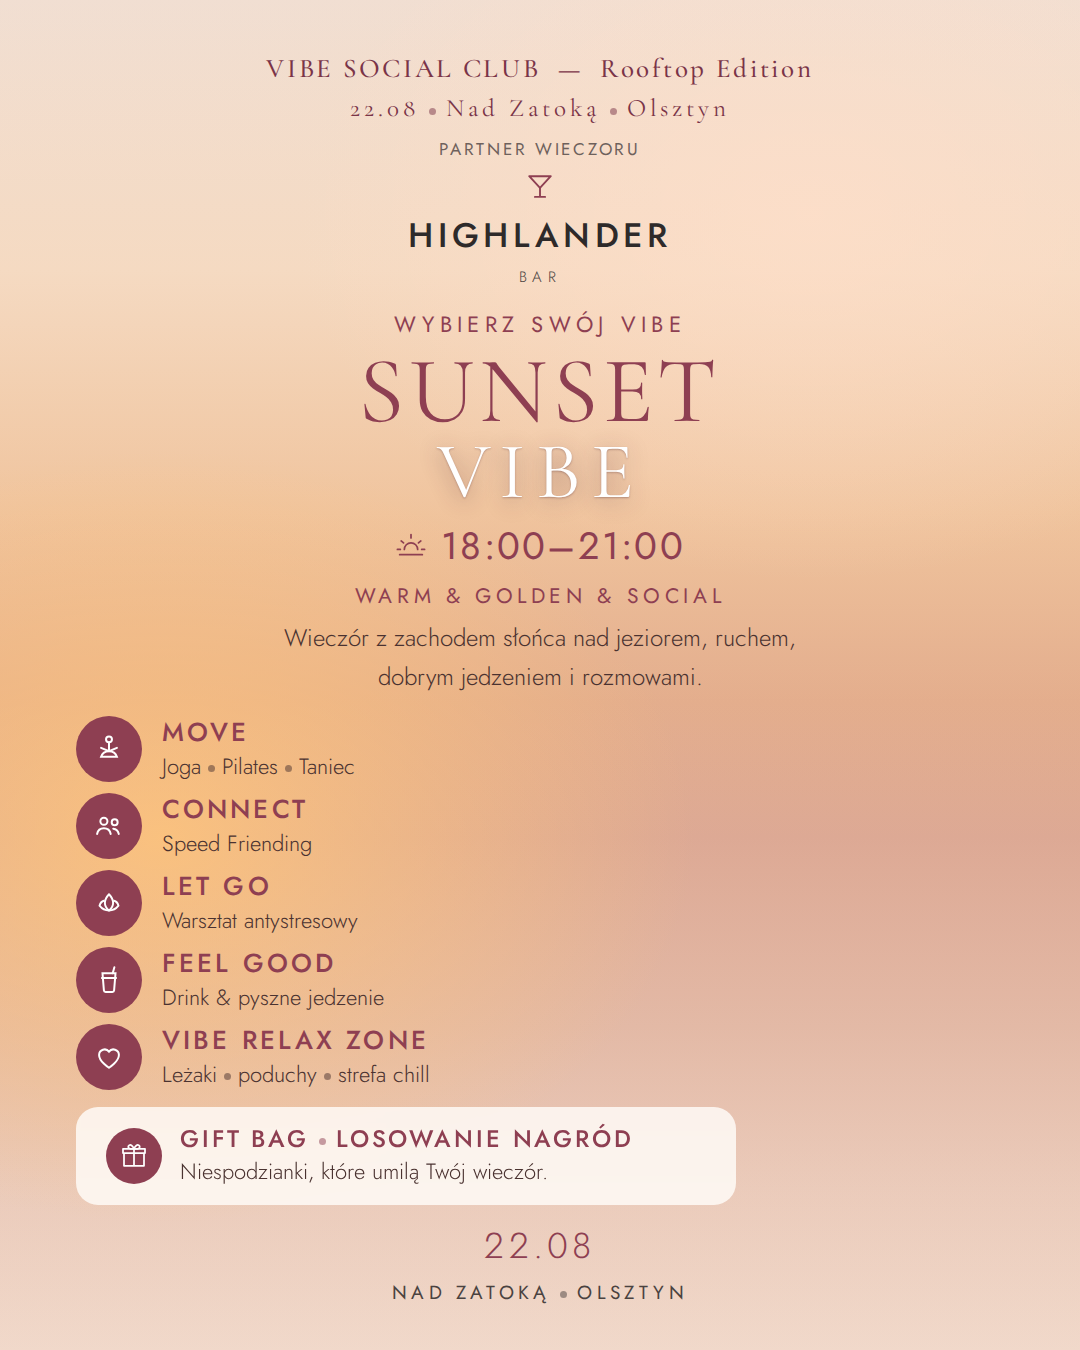
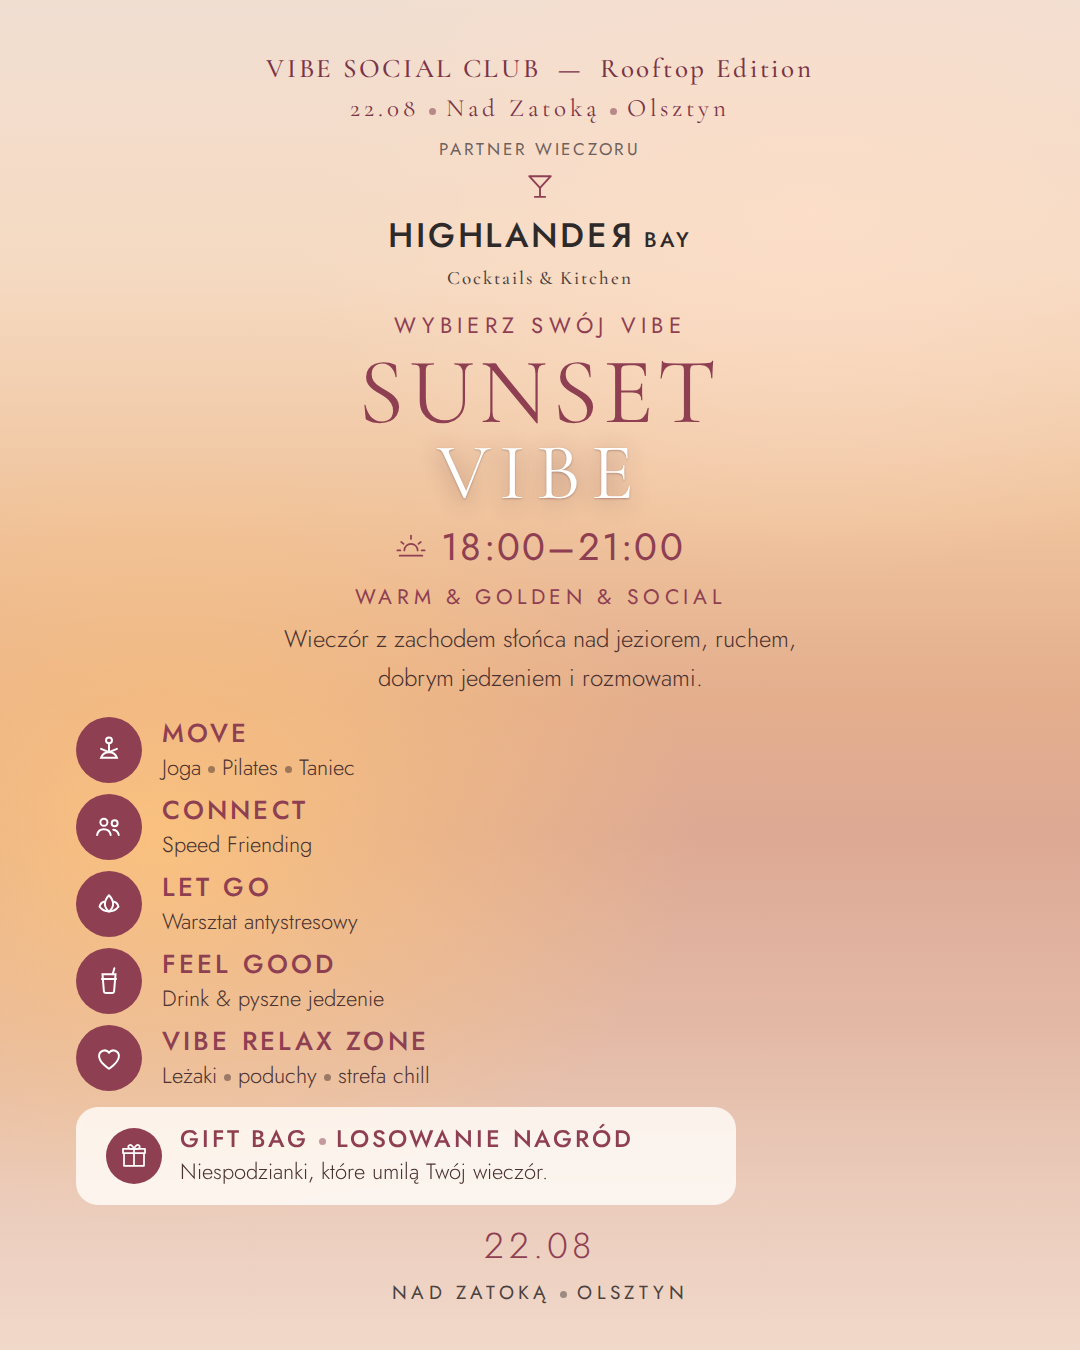
Okładka wg referencji + poprawione logotypy partnerów
Slajd 01 przebudowany na kompozycję z dostarczonej grafiki:
- ozdobna ramka wzdłuż krawędzi kadru
- pasek partnerów: VIBE / Nad Zatoką Aparthotel / Tatarak Restauracja
  / Highlander Bay Cocktails & Kitchen (z odbitą literą R w logotypie)
- VIBE w didone, SOCIAL CLUB w geometrycznym grotesku
- lista atrakcji szeryfowa, dwie linie
- data i miejsce w jednej linii u dołu, iskra pod spodem
- tło zastępcze: taras nad jeziorem (bg--lake)

Poprawione nazwy partnerów przeniesione na slajdy 04, 06 i 07,
żeby cała karuzela była spójna.

Claude-Session: https://claude.ai/code/session_019eG1XVbUQaH9xsaJXDgxn5

diff --git a/slides/01-okladka.html b/slides/01-okladka.html
@@ -15,101 +15,109 @@
      Zdjęcie tła: assets/img/01-okladka.jpg
      (wrzuć plik o tej nazwie, a zastąpi tło rysowane CSS-em)
      ========================================================= -->
-<section class="slide t-light" data-slide="01" data-name="Okładka">
+<section class="slide t-cover" data-slide="01" data-name="Okładka">
 
-  <div class="slide__bg bg--sunset"></div>
+  <div class="slide__bg bg--lake"></div>
   <div class="slide__photo" style="background-image: url(../assets/img/01-okladka.jpg)"></div>
-  <div class="slide__veil veil--soft"></div>
+  <div class="slide__veil" style="background:linear-gradient(180deg,rgba(12,38,64,.34) 0%,rgba(12,38,64,.10) 34%,rgba(12,38,64,0) 52%,rgba(24,28,36,.14) 76%,rgba(24,28,36,.52) 100%)"></div>
+  <div class="slide__frame"></div>
 
-  <div class="slide__content">
+  <div class="slide__content" style="padding:56px 76px 44px">
+
+    <!-- tylko dla tego slajdu -->
+    <style>
+      [data-slide="01"] .hero {
+        font-size: 200px; font-weight: 400; line-height: .9;
+        letter-spacing: .03em; text-indent: .03em;
+      }
+      [data-slide="01"] .club {
+        font-family: var(--f-sans); font-size: 63px; font-weight: 300;
+        letter-spacing: .17em; text-indent: .17em; color: var(--c-title);
+        line-height: 1;
+      }
+      [data-slide="01"] .script { font-size: 66px; }
+      /* lista atrakcji — szeryfowa, jak na oryginale */
+      [data-slide="01"] .dot-list {
+        font-family: var(--f-display); font-size: 29px; font-weight: 500;
+        letter-spacing: .015em; line-height: 1.62; color: var(--c-body);
+      }
+      [data-slide="01"] .dot::before { width: 6px; height: 6px; opacity: .85; }
+      [data-slide="01"] .date {
+        font-family: var(--f-display); font-size: 55px; font-weight: 500;
+        letter-spacing: .02em; color: var(--c-title); line-height: 1.1;
+      }
+      /* pasek partnerów */
+      [data-slide="01"] .logo-row { gap: 30px; color: #FBE7E0; align-items: center; }
+      [data-slide="01"] .logo-row__x { font-size: 19px; opacity: .75; }
+      [data-slide="01"] .logo__name { font-family: var(--f-sans); font-size: 27px; font-weight: 300; letter-spacing: .10em; }
+      [data-slide="01"] .logo__sub  { font-size: 12px; font-weight: 300; letter-spacing: .30em; margin-top: 6px; opacity: .95; }
+    </style>
 
     <!-- pasek partnerów -->
     <div class="logo-row">
+
       <div class="logo">
-        <div class="logo__name" data-edit>VIBE</div>
-        <div class="logo__sub" data-edit>STUDIO</div>
+        <div class="logo__name" style="font-family:var(--f-display);font-size:44px;font-weight:400;letter-spacing:.13em"
+             data-edit>VIBE</div>
       </div>
+
       <span class="logo-row__x">&times;</span>
+
       <div class="logo">
-        <div class="logo__name" data-edit>NAD
-ZATOKĄ</div>
+        <div class="logo__name" data-edit>NAD ZATOKĄ</div>
+        <div class="logo__sub" data-edit>APARTHOTEL</div>
       </div>
+
       <span class="logo-row__x">&times;</span>
+
       <div class="logo">
-        <div class="logo__name" data-edit>TATARAK</div>
-        <div class="logo__sub" data-edit>RESTAURACJA</div>
+        <!-- ikona: sztućce (logo Tatarak) -->
+        <svg viewBox="0 0 24 24" fill="none" stroke="currentColor" stroke-width="1.15" stroke-linecap="round"
+             style="width:30px;height:30px;margin:0 auto 5px">
+          <path d="M6.4 3.4v5.9M8.6 3.4v5.9M10.8 3.4v5.9M8.6 9.3v11.3"/>
+          <path d="M17.6 3.4c-1.4 1.3-2.1 2.9-2.1 4.7 0 1.5.7 2.5 2.1 3v9.5"/>
+        </svg>
+        <div class="logo__name" style="font-size:25px;letter-spacing:.12em" data-edit>TATARAK</div>
+        <div class="logo__sub" style="font-size:10px" data-edit>RESTAURACJA</div>
       </div>
+
       <span class="logo-row__x">&times;</span>
+
       <div class="logo">
-        <div class="logo__name" data-edit>HIGHLANDER</div>
-        <div class="logo__sub" data-edit>BAR</div>
+        <div class="logo__name" style="font-size:25px;letter-spacing:.06em" data-edit>HIGHLANDE<span
+          style="display:inline-block;transform:scaleX(-1)">R</span> <span style="font-size:16px">BAY</span></div>
+        <div class="logo__sub"
+             style="font-family:var(--f-display);font-size:15px;font-weight:500;letter-spacing:.10em;text-transform:none"
+             data-edit>Cocktails &amp; Kitchen</div>
       </div>
+
     </div>
 
     <!-- tytuł -->
-    <h1 class="hero mt-70" data-edit>VIBE</h1>
-    <div class="h1 mt-14" data-edit>SOCIAL CLUB</div>
-    <div class="script mt-8" data-edit>&mdash; Rooftop Edition &mdash;</div>
+    <h1 class="hero mt-52" data-edit>VIBE</h1>
+    <div class="club mt-14" data-edit>SOCIAL CLUB</div>
+    <div class="script mt-14" data-edit>- Rooftop Edition -</div>
 
     <!-- lista atrakcji -->
-    <p class="dot-list mt-38" style="font-size:25px" data-edit>
+    <p class="dot-list mt-28" data-edit>
       Pilates <span class="dot">&bull;</span> Joga <span class="dot">&bull;</span> Speed Friending
       <span class="dot">&bull;</span> Warsztat antystresowy <span class="dot">&bull;</span> Taniec
-      <span class="dot">&bull;</span> Matcha<br>
-      Pyszne Jedzenie <span class="dot">&bull;</span> Relax Zone <span class="dot">&bull;</span> Gift Bag
+      <span class="dot">&bull;</span> Matcha <span class="dot">&bull;</span><br>
+      Pyszne jedzenie <span class="dot">&bull;</span> Relax Zone <span class="dot">&bull;</span> Gift Bag
       <span class="dot">&bull;</span> Losowanie nagród
     </p>
-
-    <!-- dwie tury -->
-    <div class="time-split mt-38 w-mid">
-      <div class="time-block">
-        <div class="time-block__head">
-          <!-- ikona: słońce -->
-          <svg viewBox="0 0 24 24" fill="none" stroke="currentColor" stroke-width="1.3"
-               stroke-linecap="round" style="color:var(--rose-400)">
-            <circle cx="12" cy="12" r="4.2"/>
-            <path d="M12 2.2v2.4M12 19.4v2.4M2.2 12h2.4M19.4 12h2.4M5.1 5.1l1.7 1.7M17.2 17.2l1.7 1.7M18.9 5.1l-1.7 1.7M6.8 17.2l-1.7 1.7"/>
-          </svg>
-          <span class="time-block__label" data-edit>Morning Vibe</span>
-        </div>
-        <div class="time-block__hours" data-edit>9:00&ndash;12:00</div>
-      </div>
-
-      <div class="time-split__sep"></div>
-
-      <div class="time-block">
-        <div class="time-block__head">
-          <!-- ikona: zachód słońca -->
-          <svg viewBox="0 0 24 24" fill="none" stroke="currentColor" stroke-width="1.3"
-               stroke-linecap="round" style="color:var(--rose-400)">
-            <path d="M3.5 18.5h17"/>
-            <path d="M7 14.6a5 5 0 0 1 10 0"/>
-            <path d="M12 3.4v2.6M4.6 8.2l1.8 1.5M19.4 8.2l-1.8 1.5M1.8 14.6h2.2M20 14.6h2.2"/>
-          </svg>
-          <span class="time-block__label" data-edit>Sunset Vibe</span>
-        </div>
-        <div class="time-block__hours" data-edit>18:00&ndash;21:00</div>
-      </div>
-    </div>
 
     <div class="grow"></div>
 
     <!-- data i miejsce -->
-    <div class="h2" style="font-size:64px;letter-spacing:.10em" data-edit>22.08</div>
-    <div class="lead mt-8" style="font-size:34px" data-edit>Nad Zatoką <span class="dot">&bull;</span> Olsztyn</div>
+    <p class="date" data-edit>22.08 &nbsp; Nad Zatoką, Olsztyn</p>
 
-    <div class="rule mt-20" style="--rule-len:170px">
-      <span class="rule__mark">
-        <!-- ikona: serce -->
-        <svg viewBox="0 0 24 24" fill="none" stroke="currentColor" stroke-width="1.5">
-          <path d="M12 20s-7.2-4.5-7.2-9.4A4 4 0 0 1 12 8.2a4 4 0 0 1 7.2 2.4C19.2 15.5 12 20 12 20z"/>
-        </svg>
-      </span>
+    <div class="mt-14" style="line-height:0;color:var(--c-title)">
+      <!-- ikona: iskra -->
+      <svg viewBox="0 0 24 24" fill="currentColor" style="width:22px;height:22px;display:inline-block">
+        <path d="M12 3c.5 4.3 2 5.9 6.3 6.4-4.3.5-5.8 2.1-6.3 6.4-.5-4.3-2-5.9-6.3-6.4C10 8.9 11.5 7.3 12 3z"/>
+      </svg>
     </div>
-
-    <p class="small mt-14" style="color:var(--ink-500)" data-edit>
-      Kameralne kobiece doświadczenie na rooftopie nad jeziorem Ukiel.
-    </p>
 
   </div>
 </section>

diff --git a/slides/06-zapisy.html b/slides/06-zapisy.html
@@ -83,23 +83,31 @@
     <div class="grow"></div>
 
     <!-- stopka: partnerzy -->
-    <div class="logo-row logo-row--light" style="gap:26px">
+    <div class="logo-row logo-row--light" style="gap:26px;align-items:center">
       <div class="logo">
-        <div class="logo__name" style="font-size:28px" data-edit>VIBE</div>
-        <div class="logo__sub" style="font-size:11px" data-edit>STUDIO</div>
-      </div>
-      <span class="logo-row__x">&times;</span>
-      <div class="logo"><div class="logo__name" style="font-size:28px" data-edit>NAD
-ZATOKĄ</div></div>
-      <span class="logo-row__x">&times;</span>
-      <div class="logo">
-        <div class="logo__name" style="font-size:28px" data-edit>TATARAK</div>
-        <div class="logo__sub" style="font-size:11px" data-edit>RESTAURACJA</div>
+        <div class="logo__name" style="font-family:var(--f-display);font-size:32px;letter-spacing:.13em"
+             data-edit>VIBE</div>
       </div>
       <span class="logo-row__x">&times;</span>
       <div class="logo">
-        <div class="logo__name" style="font-size:28px" data-edit>HIGHLANDER</div>
-        <div class="logo__sub" style="font-size:11px" data-edit>BAR</div>
+        <div class="logo__name" style="font-family:var(--f-sans);font-size:21px;font-weight:300;letter-spacing:.10em"
+             data-edit>NAD ZATOKĄ</div>
+        <div class="logo__sub" style="font-size:10px" data-edit>APARTHOTEL</div>
+      </div>
+      <span class="logo-row__x">&times;</span>
+      <div class="logo">
+        <div class="logo__name" style="font-family:var(--f-sans);font-size:20px;font-weight:300;letter-spacing:.12em"
+             data-edit>TATARAK</div>
+        <div class="logo__sub" style="font-size:9px" data-edit>RESTAURACJA</div>
+      </div>
+      <span class="logo-row__x">&times;</span>
+      <div class="logo">
+        <div class="logo__name" style="font-family:var(--f-sans);font-size:20px;font-weight:300;letter-spacing:.06em">
+          HIGHLANDE<span style="display:inline-block;transform:scaleX(-1)">R</span>
+          <span style="font-size:13px">BAY</span></div>
+        <div class="logo__sub"
+             style="font-family:var(--f-display);font-size:13px;font-weight:500;letter-spacing:.08em;text-transform:none"
+             data-edit>Cocktails &amp; Kitchen</div>
       </div>
     </div>
 

diff --git a/assets/css/slides.css b/assets/css/slides.css
@@ -31,6 +31,14 @@
 /* warstwa 3 — woal poprawiający czytelność tekstu */
 .slide__veil { position: absolute; inset: 0; z-index: 2; opacity: var(--veil, .18); }
 
+/* ozdobna ramka wzdłuż krawędzi slajdu */
+.slide__frame {
+  position: absolute; z-index: 3; pointer-events: none;
+  inset: var(--frame-inset, 14px);
+  border: 1px solid var(--frame-color, rgba(246,201,192,.5));
+  border-radius: var(--frame-radius, 0);
+}
+
 /* warstwa 4 — treść */
 .slide__content {
   position: relative; z-index: 3;
@@ -82,6 +90,21 @@
     linear-gradient(180deg,
       #F0DDD0 0%, #F5D9C0 20%, #F0C39C 38%, #E3AC8B 52%,
       #DCA792 62%, #E2B7A3 76%, #EAC9B8 88%, #F0D7C8 100%);
+}
+
+/* Taras nad jeziorem w słońcu — okładka */
+.bg--lake {
+  background:
+    /* cienie liści palmowych na płytkach */
+    radial-gradient(ellipse 34% 9% at 16% 82%, rgba(52,62,74,.26) 0%, rgba(52,62,74,0) 72%),
+    radial-gradient(ellipse 30% 8% at 86% 74%, rgba(52,62,74,.22) 0%, rgba(52,62,74,0) 72%),
+    radial-gradient(ellipse 26% 7% at 34% 94%, rgba(52,62,74,.18) 0%, rgba(52,62,74,0) 72%),
+    /* blask nieba */
+    radial-gradient(70% 34% at 50% 4%, rgba(126,178,214,.55) 0%, rgba(126,178,214,0) 70%),
+    linear-gradient(180deg,
+      #14406B 0%, #1B4E7C 18%, #24608E 34%, #2E6E9C 44%,
+      #2F4C5E 47%, #2C6685 48.5%, #35779A 52%, #4E8AA8 56%,
+      #8E9899 58%, #ADAAA4 62%, #B2AFA8 74%, #9E9B95 90%, #8A8781 100%);
 }
 
 /* Noc / granat — alternatywna okładka */
@@ -356,6 +379,16 @@
 .t-sunset .feature__icon { background: #8E3F52; }
 .t-sunset .feature__title { color: #8E3F52; }
 .t-sunset .feature__desc { color: #4A3230; }
+
+/* okładka — pudrowy róż na zdjęciu */
+.t-cover {
+  --c-title: #F8CCC3;
+  --c-body: #F4D5CD;
+  --c-muted: rgba(244,213,205,.85);
+  --c-line: rgba(248,204,195,.5);
+  --frame-color: rgba(248,204,195,.55);
+  --veil: .10;
+}
 
 /* granatowy */
 .t-blue {

diff --git a/slides/04-sunset-vibe.html b/slides/04-sunset-vibe.html
@@ -66,10 +66,11 @@
         <path d="M4.8 4.8h14.4L12 12.6z"/>
         <path d="M12 12.6v5.6M8.6 18.6h6.8"/>
       </svg>
-      <div style="font-family:var(--f-sans);font-size:34px;font-weight:500;letter-spacing:.14em;color:var(--ink-900)"
-           data-edit>HIGHLANDER</div>
-      <div style="font-family:var(--f-sans);font-size:15px;font-weight:300;letter-spacing:.36em;color:var(--ink-700)"
-           data-edit>BAR</div>
+      <div style="font-family:var(--f-sans);font-size:34px;font-weight:500;letter-spacing:.08em;color:var(--ink-900)">
+        HIGHLANDE<span style="display:inline-block;transform:scaleX(-1)">R</span>
+        <span style="font-size:21px">BAY</span></div>
+      <div style="font-family:var(--f-display);font-size:19px;font-weight:500;letter-spacing:.10em;color:var(--ink-700)"
+           data-edit>Cocktails &amp; Kitchen</div>
     </div>
 
     <!-- tytuł -->

diff --git a/slides/07-okladka-alt.html b/slides/07-okladka-alt.html
@@ -41,8 +41,8 @@
     </style>
 
     <p class="partners" data-edit>
-      VIBE Studio <span class="x">&times;</span> Nad Zatoką <span class="x">&times;</span>
-      Tatarak <span class="x">&times;</span> Highlander
+      VIBE <span class="x">&times;</span> Nad Zatoką Aparthotel <span class="x">&times;</span>
+      Tatarak <span class="x">&times;</span> Highlander Bay
     </p>
 
     <h1 class="hero mt-38" data-edit>VIBE</h1>
